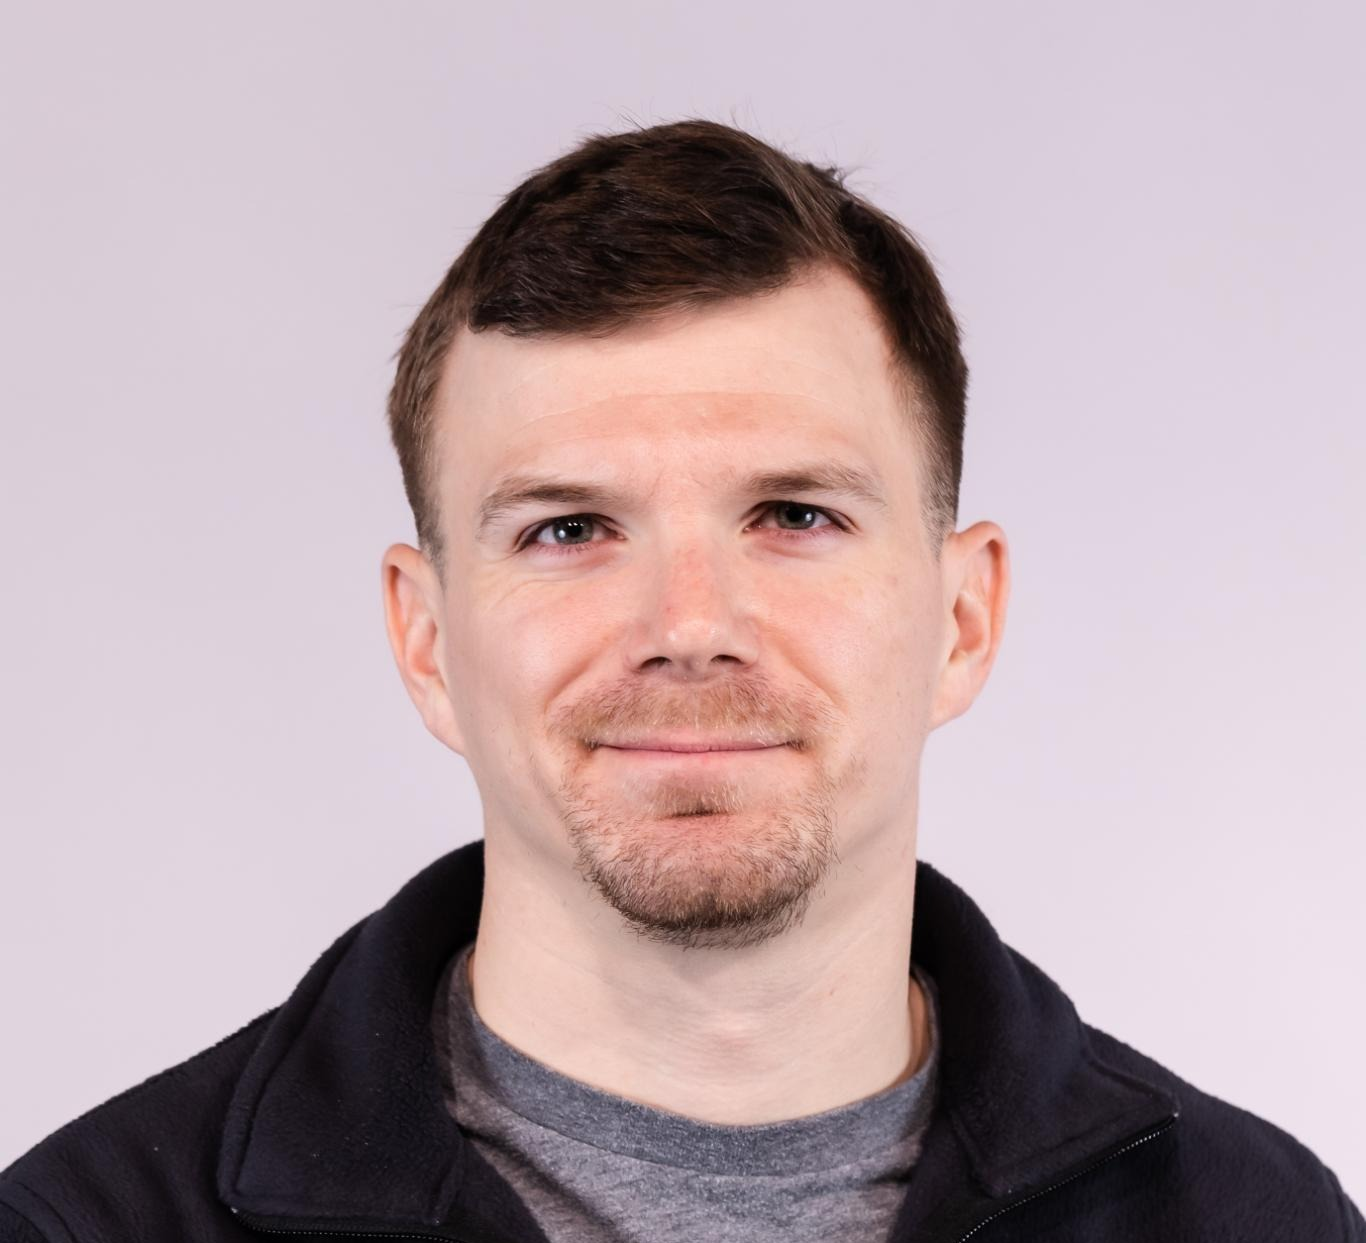
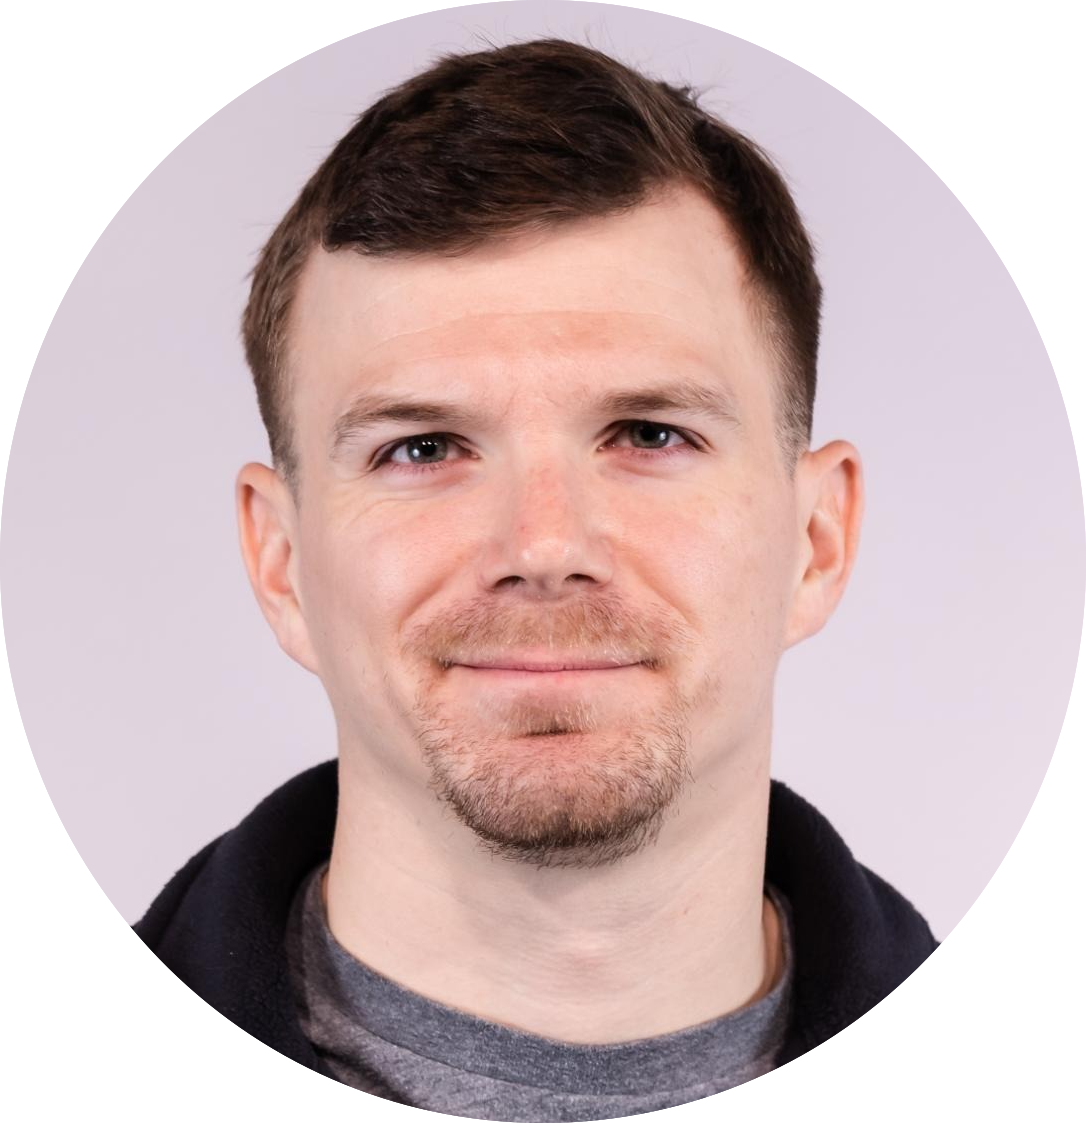
removed notion, updated photo

diff --git a/about.html b/about.html
@@ -24,14 +24,12 @@
                 <img src="assets/image/navbar-logo.png" alt="Logo">
                 <div>
                     <a href="about.html"><button
-                            class="px-7 py-3 md:px-9 md:py-4 bg-white font-medium md:font-semibold text-gray-700 text-md rounded-md hover:bg-gray-700 hover:text-white active:bg-gray-700 active:text-white">
+                            class="px-7 py-3 md:px-9 md:py-4 bg-white font-medium md:font-semibold text-gray-700 text-md 
+                            rounded-md hover:bg-gray-700 hover:text-white active:bg-gray-700 active:text-white">
                             About Me
                         </button></a>
-                    <!-- <a href="https://markrood.notion.site/" target="_blank"><button
-                            class="px-7 py-3 md:px-9 md:py-4 bg-white font-medium md:font-semibold text-gray-700 text-md rounded-md hover:bg-gray-700 hover:text-white transition ease-linear duration-500">
-                            My Notion
-                        </button></a> -->
-                    <a href="index.html"><button class="px-7 py-3 md:px-9 md:py-4 bg-white font-medium md:font-semibold text-gray-700 text-md 
+                    <a href="index.html"><button
+                            class="px-7 py-3 md:px-9 md:py-4 bg-white font-medium md:font-semibold text-gray-700 text-md 
                             rounded-md hover:bg-gray-700 hover:text-white focus:text-white active:bg-gray-700 active:text-white">My
                             Resumé</button></a>
                 </div>
@@ -41,7 +39,8 @@
                 <div class="flex justify-center mb-16">
                     <img id="headshot" src="assets/image/home-img3.png" alt="Image">
                 </div>
-                <h6 class="font-medium text-gray-600 dark:text-white text-lg md:text-2xl uppercase mb-8 text-sky-800">Mark Rood</h6>
+                <h6 class="font-medium text-gray-600 dark:text-white text-lg md:text-2xl uppercase mb-8 text-sky-800">
+                    Mark Rood</h6>
                 <h1 class="font-normal text-gray-900 text-4xl md:text-7xl leading-none mb-8">System Administrator</h1>
                 <p class="font-normal text-gray-600 text-md md:text-xl mb-16">I’m passionate about automation and
                     leveraging it to make people’s days easier and more efficient</p>

diff --git a/index.html b/index.html
@@ -22,11 +22,8 @@
                 <img src="assets/image/navbar-logo.png" alt="Logo" />
                 <div>
                     <a href="about.html"><button class="px-7 py-3 md:px-9 md:py-4 bg-white font-medium md:font-semibold text-gray-700 text-md 
-                            rounded-md hover:bg-gray-700 hover:text-white active:bg-gray-700 active:text-white">About Me</button></a>
-                    <!-- <a href="https://markrood.notion.site/" target="_blank"><button
-                            class="px-7 py-3 md:px-9 md:py-4 bg-white font-medium md:font-semibold text-gray-700 text-md rounded-md hover:bg-gray-700 hover:text-white transition ease-linear duration-500">
-                            My Notion
-                        </button></a> -->
+                            rounded-md hover:bg-gray-700 hover:text-white active:bg-gray-700 active:text-white">About
+                            Me</button></a>
                     <a href="index.html"><button class="px-7 py-3 md:px-9 md:py-4 bg-white font-medium md:font-semibold text-gray-700 text-md 
                             rounded-md hover:bg-gray-700 hover:text-white active:bg-gray-700 active:text-white">My
                             Resumé</button></a>
